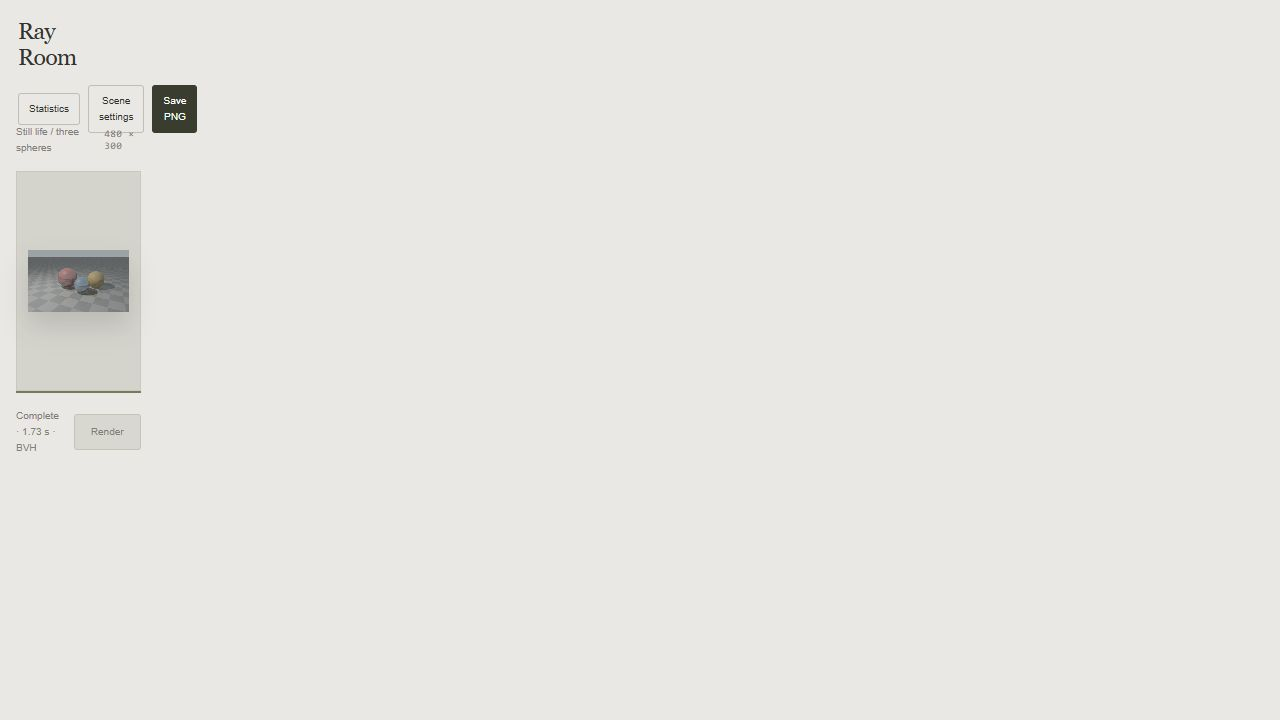
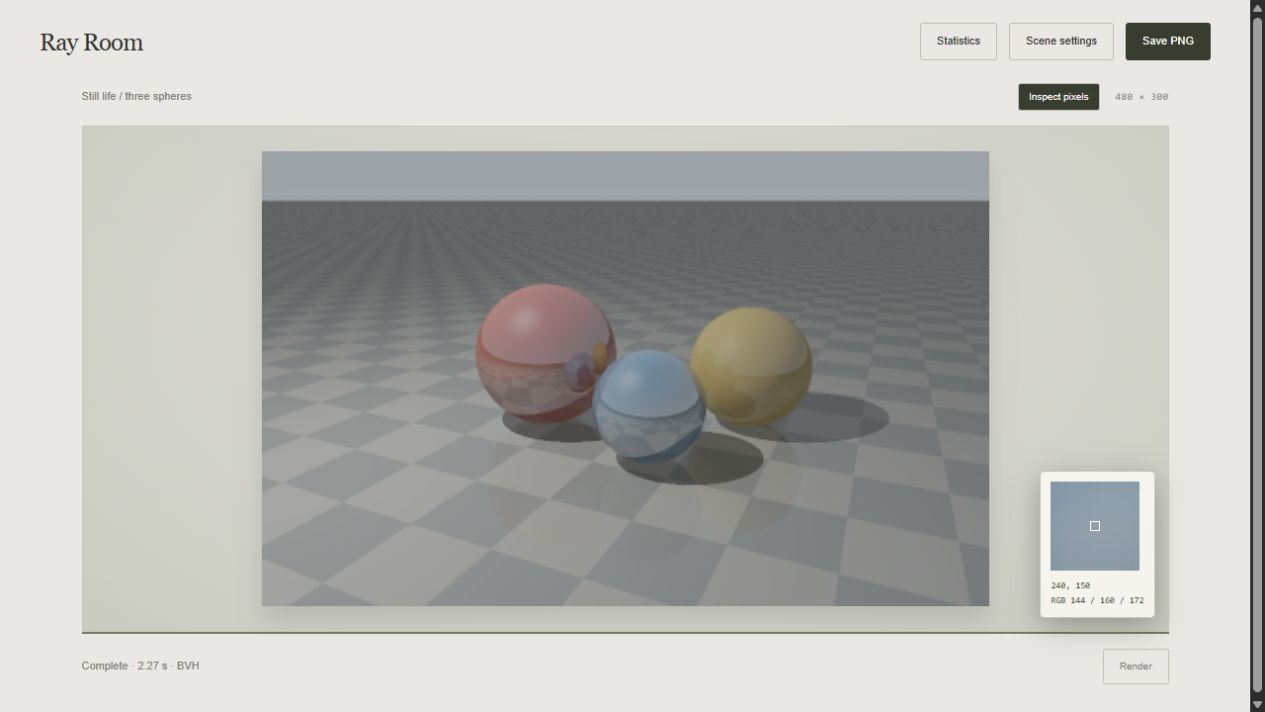
Add optional pixel loupe to the rendered-image workspace

diff --git a/app.js b/app.js
@@ -6,7 +6,8 @@ const $ = (id) => document.getElementById(id),
 let worker = null,
   revision = 0,
   completed = null,
-  importRevision = 0;
+  importRevision = 0,
+  inspectPoint = { x: 0, y: 0 };
 function read() {
   const result = {};
   for (const element of form.elements)
@@ -31,6 +32,9 @@ function invalidate(message) {
   worker?.terminate();
   worker = null;
   completed = null;
+  $('inspect').disabled = true;
+  $('inspect').setAttribute('aria-pressed', 'false');
+  $('pixel-inspector').hidden = true;
   $('cancel').disabled = true;
   $('png').disabled = true;
   $('report').disabled = true;
@@ -87,6 +91,9 @@ function render() {
         worker = null;
         $('cancel').disabled = true;
         $('png').disabled = false;
+        $('inspect').disabled = false;
+        if (!matchMedia('(prefers-reduced-motion: reduce)').matches)
+          canvas.animate([{ opacity: 0.75 }, { opacity: 1 }], { duration: 300 });
         $('report').disabled = false;
         $('status').textContent =
           `Complete · ${(data.stats.milliseconds / 1000).toFixed(2)} s · ${config.acceleration ? 'BVH' : 'brute force'}`;
@@ -170,3 +177,61 @@ for (const name of ['settings', 'metrics']) {
   $(name + '-close').addEventListener('click', () => $(name + '-panel').close());
 }
 $('render-again').addEventListener('click', render);
+
+function inspectPixel() {
+  if (!completed || $('inspect').getAttribute('aria-pressed') !== 'true') return;
+  const { x, y } = inspectPoint,
+    zoom = $('pixel-zoom').getContext('2d');
+  zoom.fillStyle = '#252a24';
+  zoom.fillRect(0, 0, 90, 90);
+  zoom.imageSmoothingEnabled = false;
+  zoom.drawImage(canvas, x - 4, y - 4, 9, 9, 0, 0, 90, 90);
+  zoom.strokeStyle = '#fff';
+  zoom.lineWidth = 1;
+  zoom.strokeRect(40.5, 40.5, 9, 9);
+  const rgb = context.getImageData(x, y, 1, 1).data;
+  $('pixel-readout').textContent = `${x}, ${y}\nRGB ${rgb[0]} / ${rgb[1]} / ${rgb[2]}`;
+}
+$('inspect').onclick = () => {
+  if (!completed) return;
+  const enabled = $('inspect').getAttribute('aria-pressed') !== 'true';
+  $('inspect').setAttribute('aria-pressed', String(enabled));
+  $('pixel-inspector').hidden = !enabled;
+  canvas.classList.toggle('inspecting', enabled);
+  if (enabled) {
+    inspectPoint = { x: Math.floor(canvas.width / 2), y: Math.floor(canvas.height / 2) };
+    inspectPixel();
+    canvas.focus({ preventScroll: true });
+  }
+};
+canvas.addEventListener('pointermove', (event) => {
+  if (!completed || $('inspect').getAttribute('aria-pressed') !== 'true') return;
+  const rect = canvas.getBoundingClientRect();
+  inspectPoint = {
+    x: Math.max(
+      0,
+      Math.min(
+        canvas.width - 1,
+        Math.floor(((event.clientX - rect.left) / rect.width) * canvas.width),
+      ),
+    ),
+    y: Math.max(
+      0,
+      Math.min(
+        canvas.height - 1,
+        Math.floor(((event.clientY - rect.top) / rect.height) * canvas.height),
+      ),
+    ),
+  };
+  inspectPixel();
+});
+canvas.addEventListener('keydown', (event) => {
+  if (!completed || $('inspect').getAttribute('aria-pressed') !== 'true') return;
+  const moves = { ArrowLeft: [-1, 0], ArrowRight: [1, 0], ArrowUp: [0, -1], ArrowDown: [0, 1] };
+  if (!moves[event.key]) return;
+  event.preventDefault();
+  const [dx, dy] = moves[event.key];
+  inspectPoint.x = Math.max(0, Math.min(canvas.width - 1, inspectPoint.x + dx));
+  inspectPoint.y = Math.max(0, Math.min(canvas.height - 1, inspectPoint.y + dy));
+  inspectPixel();
+});

diff --git a/style.css b/style.css
@@ -422,3 +422,71 @@ dd {
 .viewer-actions #cancel:disabled {
   display: none;
 }
+.image-tools {
+  display: flex;
+  gap: 16px;
+  align-items: center;
+}
+.image-tools button {
+  padding: 5px 10px;
+  font-size: 10px;
+}
+#inspect[aria-pressed='true'] {
+  background: #383d30;
+  color: #fff;
+}
+.canvas-wrap {
+  position: relative;
+  background: radial-gradient(ellipse at 50% 40%, #e0dfd8, #c9cbc0);
+}
+#canvas:focus-visible {
+  outline: 2px solid #6d7955;
+  outline-offset: 5px;
+}
+#canvas.inspecting {
+  cursor: crosshair;
+}
+#pixel-inspector {
+  position: absolute;
+  right: 14px;
+  bottom: 14px;
+  padding: 10px;
+  background: #f7f7f0ed;
+  box-shadow: 0 8px 30px #2225;
+  border: 1px solid #c2c6b8;
+  border-radius: 5px;
+  pointer-events: none;
+}
+#pixel-zoom {
+  width: 90px;
+  height: 90px;
+  max-width: none;
+  box-shadow: none;
+  image-rendering: pixelated;
+}
+#pixel-readout {
+  display: block;
+  white-space: pre;
+  font:
+    9px/1.6 ui-monospace,
+    monospace;
+  margin-top: 8px;
+  color: #424a36;
+}
+@media (max-width: 600px) {
+  .stage-head {
+    gap: 8px;
+  }
+  .image-tools {
+    gap: 8px;
+  }
+  #pixel-inspector {
+    right: 4px;
+    bottom: 4px;
+    padding: 6px;
+  }
+  #pixel-zoom {
+    width: 72px;
+    height: 72px;
+  }
+}

diff --git a/index.html b/index.html
@@ -19,15 +19,29 @@
     <main>
       <section class="stage" aria-label="Rendered scene">
         <div class="stage-head">
-          <span id="caption">Still life / three spheres</span><span id="dimensions">480 × 300</span>
+          <span id="caption">Still life / three spheres</span>
+          <div class="image-tools">
+            <button id="inspect" aria-pressed="false" disabled>Inspect pixels</button
+            ><span id="dimensions">480 × 300</span>
+          </div>
         </div>
         <div class="canvas-wrap">
           <canvas
             id="canvas"
+            tabindex="0"
             width="480"
             height="300"
             aria-label="Progressively rendered scene"
           ></canvas>
+          <div id="pixel-inspector" hidden>
+            <canvas
+              id="pixel-zoom"
+              width="90"
+              height="90"
+              aria-label="Magnified nine-by-nine pixel neighborhood"
+            ></canvas
+            ><output id="pixel-readout"></output>
+          </div>
         </div>
         <progress id="progress" value="0" max="300" aria-label="Rendering progress"></progress>
         <div class="stage-foot">

diff --git a/README.md b/README.md
@@ -18,6 +18,8 @@ Open http://127.0.0.1:8000/. Use `--port 8828` for another port. Rendering stays
 
 The rendered image occupies the main viewer with a compact toolbar and progress indicator. Scene settings open in a bottom dialog and close when rendering starts. Statistics open separately. Portrait and landscape images preserve their aspect ratio as the viewport changes; exports retain the selected pixel resolution. Cancel remains beside the viewer during rendering.
 
+**Inspect pixels** opens a nine-by-nine pixel loupe with zero-based image coordinates and final 8-bit RGB values. Move over the image or focus it and use arrow keys. Inspection is available only for a completed render and is cleared when settings change or rendering is cancelled. The magnifier stays outside the exported image.
+
 ## Explore
 
 - Orbit the camera, move the point light, and tune reflection strength and depth.
